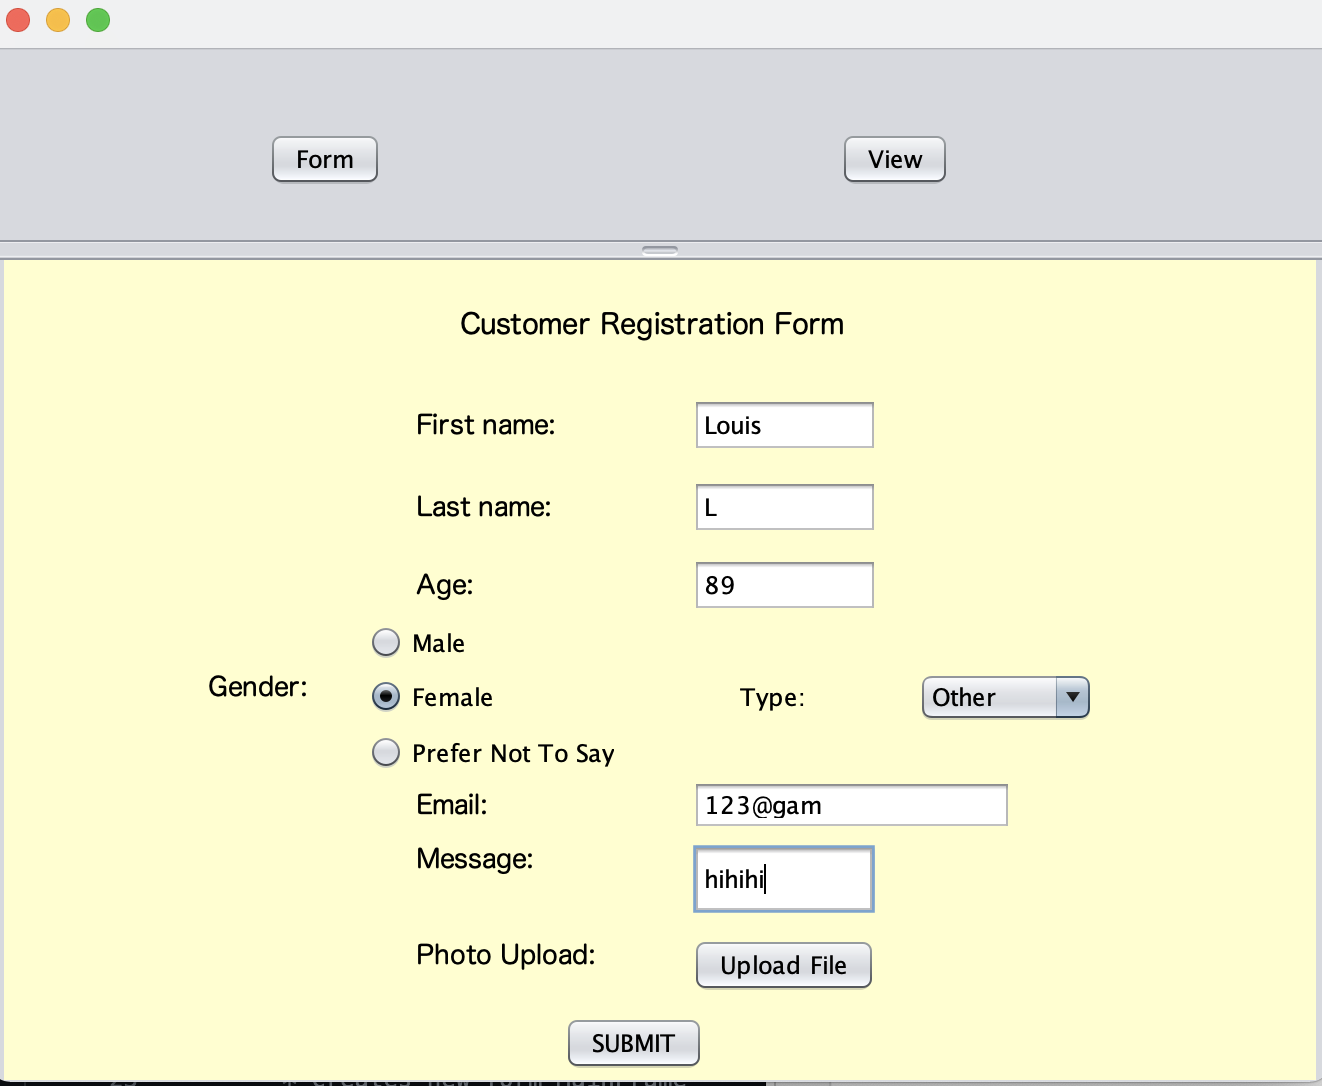
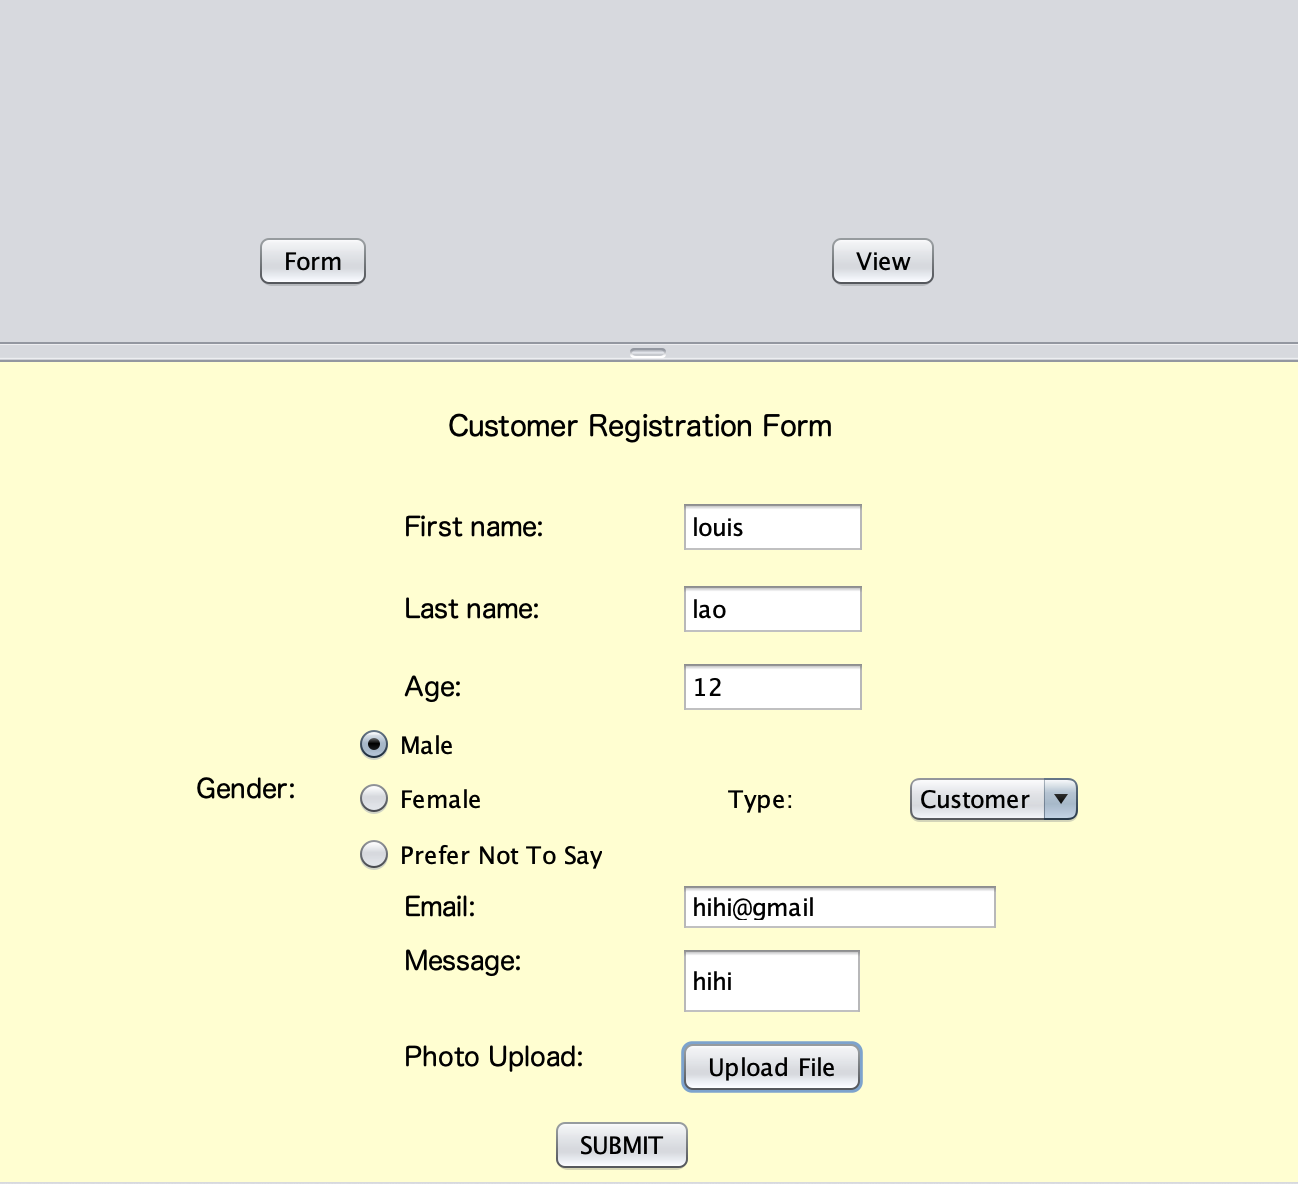
Finish radio button
Finished LAB4

diff --git a/lab04/src/ui/FormPanel.java b/lab04/src/ui/FormPanel.java
@@ -14,6 +14,7 @@ import model.User;
 import javax.swing.JOptionPane;
 import java.io.File;
 import javax.swing.ImageIcon;
+import javax.swing.JRadioButton;
 
 /**
  *
@@ -315,6 +316,9 @@ public class FormPanel extends javax.swing.JPanel {
     }//GEN-LAST:event_photoUploadActionPerformed
 
     private void submitButtonActionPerformed(java.awt.event.ActionEvent evt) {//GEN-FIRST:event_submitButtonActionPerformed
+        maleRadio.setActionCommand("Male");
+        femaleRadio.setActionCommand("Female");
+        preferNotRadio.setActionCommand("Prefer Not");
         User newUser = new User();
         newUser.setFirstName(fnText.getText());
         newUser.setLastName(lnText.getText());
@@ -363,7 +367,7 @@ public class FormPanel extends javax.swing.JPanel {
 
     }//GEN-LAST:event_emailTextKeyPressed
 
-
+    
     // Variables declaration - do not modify//GEN-BEGIN:variables
     private javax.swing.JLabel MsgLabel;
     private javax.swing.JTextField MsgText;
@@ -388,4 +392,6 @@ public class FormPanel extends javax.swing.JPanel {
     private javax.swing.JComboBox<String> typeCombo;
     private javax.swing.JLabel typeLabel;
     // End of variables declaration//GEN-END:variables
+
+
 }

diff --git a/lab04/src/ui/ViewPanel.java b/lab04/src/ui/ViewPanel.java
@@ -349,5 +349,13 @@ public class ViewPanel extends javax.swing.JPanel {
         emailText.setText(this.newUser.getEmail());
         MsgText.setText(this.newUser.getMessage());
         typeCombo.setSelectedItem(this.newUser.getType());
+        
+        if(this.newUser.getGender().equals("Male")){
+            maleRadio.setSelected(true);
+        }else if(this.newUser.getGender().equals("Female")){
+            femaleRadio.setSelected(true);
+        }else{
+            preferNotRadio.setSelected(true);
+        }
     }
 }
